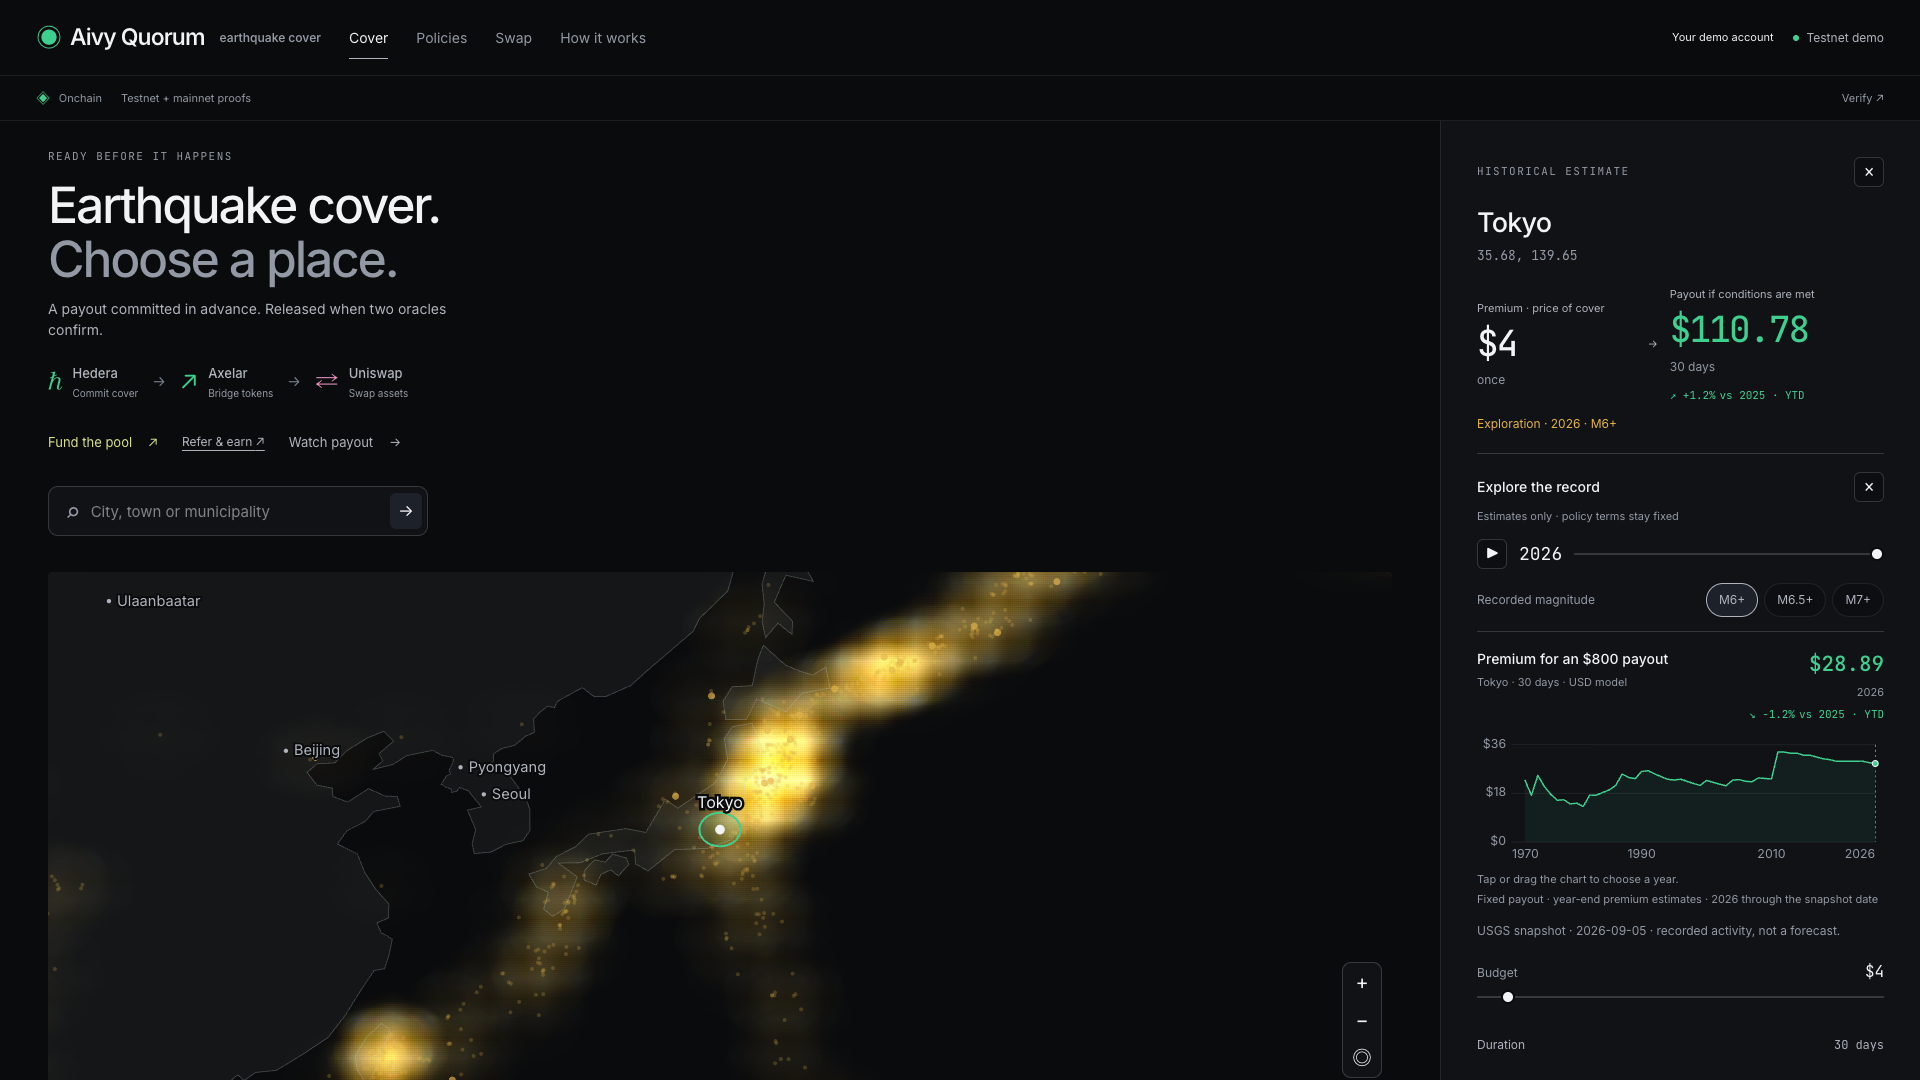
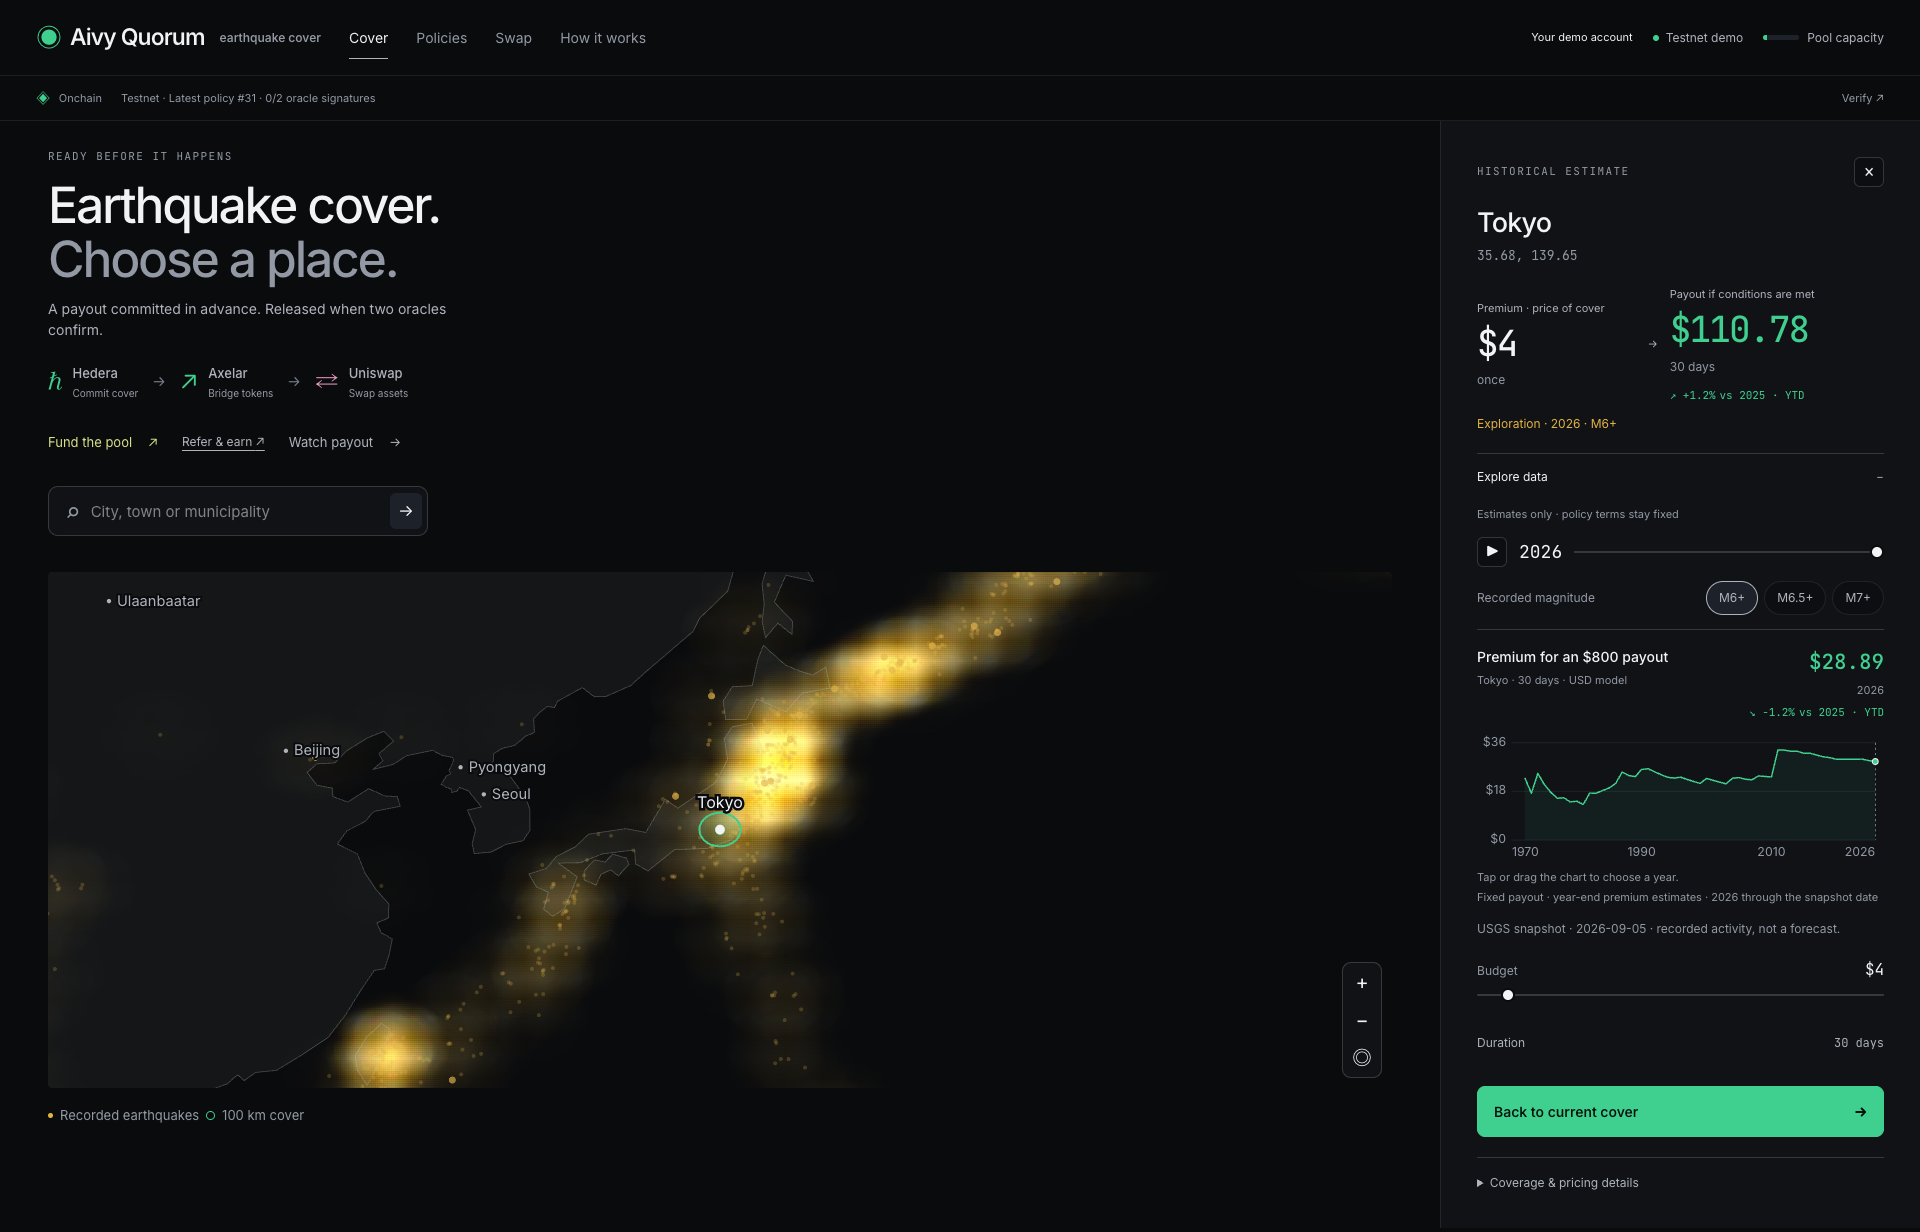
Align Explore data with the quote panel options

diff --git a/ui/src/app/ExploreControls.tsx b/ui/src/app/ExploreControls.tsx
@@ -3,8 +3,9 @@ import { CATALOGUE, FIRST_YEAR, LAST_YEAR } from '../lib/hazard';
 import { History } from './History';
 import type { MapState, Pin } from './AtlasMap';
 
-export function ExploreControls({ pin, days, map, playing, onPlay, onYear, onMagnitude, onClose }: {
+export function ExploreControls({ pin, days, map, playing, onPlay, onYear, onMagnitude, onClose, labelledBy }: {
   pin: Pin | null; days: number; map: MapState; playing: boolean;
+  labelledBy?: string;
   onPlay: () => void; onYear: (year: number) => void;
   onMagnitude: (magnitude: number) => void; onClose: () => void;
 }) {
@@ -22,10 +23,10 @@ export function ExploreControls({ pin, days, map, playing, onPlay, onYear, onMag
       });
     }
   }, []);
-  return <section id="historical-exploration" className="explore-controls" ref={section} tabIndex={-1} aria-label="Historical data exploration" onKeyDown={event => {
+  return <section id="historical-exploration" className="explore-controls" ref={section} tabIndex={-1} aria-labelledby={labelledBy} aria-label={labelledBy?undefined:'Historical data exploration'} onKeyDown={event => {
     if (event.key === 'Escape') { event.stopPropagation(); onClose(); }
   }}>
-    <div className="explore-heading"><strong>Explore the record</strong><button className="icon-btn" onClick={onClose} aria-label="Close historical exploration">×</button></div>
+    {!labelledBy?<div className="explore-heading"><strong>Explore the record</strong><button className="icon-btn" onClick={onClose} aria-label="Close historical exploration">×</button></div>:null}
     <span className="explore-disclaimer">Estimates only · policy terms stay fixed</span>
     <div className="explore-time"><button className="icon-btn" aria-label={playing ? 'Pause earthquake history' : 'Play earthquake history'} onClick={onPlay}>{playing ? 'Ⅱ' : '▶'}</button><label htmlFor={yearId}>{map.year}</label><input id={yearId} type="range" className="slider" aria-label="Record year" min={FIRST_YEAR} max={LAST_YEAR} value={map.year} onChange={event => onYear(Number(event.target.value))}/></div>
     <div className="explore-mags"><span>Recorded magnitude</span>{[6, 6.5, 7].map(m => <button key={m} className={`chip ${m === map.minMag ? 'chip-on' : ''}`} aria-pressed={m === map.minMag} onClick={() => onMagnitude(m)}>M{m}+</button>)}</div>

diff --git a/ui/src/app/Home.tsx b/ui/src/app/Home.tsx
@@ -45,7 +45,8 @@ export function Home() {
   }, []);
   useEffect(() => { const update = () => setPinState(readPin()); window.addEventListener('popstate', update); return () => window.removeEventListener('popstate', update); }, []);
   const markers = (a.policies ?? []).filter(p => p.state === 'active' || p.state === 'confirming').map(p => ({ lat: p.lat, lon: p.lon, label: p.place ?? `Policy ${p.serial}`, id: String(p.serial), tone: 'ok' as const }));
-  const exploration = exploring ? <ExploreControls pin={pin} days={days} map={map} playing={playing} onPlay={()=>{if(!playing&&map.live)setYear(FIRST_YEAR);setPlaying(!playing);}} onYear={chooseYear} onMagnitude={setMinMag} onClose={()=>changeExploring(false)}/> : null;
+  const record = exploring ? <ExploreControls pin={pin} days={days} map={map} playing={playing} labelledBy={pin?'explore-toggle':undefined} onPlay={()=>{if(!playing&&map.live)setYear(FIRST_YEAR);setPlaying(!playing);}} onYear={chooseYear} onMagnitude={setMinMag} onClose={()=>changeExploring(false)}/> : null;
+  const exploration = pin ? <div className="quote-explore"><button id="explore-toggle" className="quote-option" aria-expanded={exploring} aria-controls={exploring?'historical-exploration':undefined} onClick={()=>changeExploring(!exploring)}>Explore data <span aria-hidden="true">{exploring?'−':'+'}</span></button>{record}</div> : record;
   return <div className={`cover-layout ${pin ? 'has-quote' : ''} ${exploring ? 'is-exploring' : ''}`}>
     <div className="atlas-surface">
       <div className="atlas-intro"><div className="eyebrow">Ready before it happens</div><h1>Earthquake cover.<br /><span>Choose a place.</span></h1><p>A payout committed in advance. Released when two oracles confirm.</p><NetworkPath/><div className="journey-links"><a href="/policies?view=fund" onClick={onLink}>Fund the pool <span>↗</span></a><button className="text-button" onClick={()=>window.dispatchEvent(new Event('quorum:account'))}>Refer & earn <span aria-hidden="true">↗</span></button><a href="/story#1" onClick={onLink}>Watch payout <span>→</span></a></div></div>

diff --git a/ui/src/app/AtlasMap.tsx b/ui/src/app/AtlasMap.tsx
@@ -129,7 +129,7 @@ export function AtlasMap({ pin, onPin, map, markers = [], onMarker, onExploringC
       </svg>
       <div className="map-zoom"><button aria-label="Zoom in" onClick={()=>setView(v=>zoomAt(v,W/2,H/2,1.6))}>+</button><button aria-label="Zoom out" onClick={()=>setView(v=>zoomAt(v,W/2,H/2,1/1.6))}>−</button><button aria-label="Show world map" onClick={()=>setView(HOME)}>◎</button></div>
     </div>
-    <div className="map-bottom"><div className="map-legend"><span className="map-legend-item"><i className="legend-quake"/>Recorded earthquakes</span><span className="map-legend-item"><i className="legend-cover"/>100 km cover</span></div><button id="explore-toggle" className={`chip ${exploring ? 'chip-on' : ''}`} aria-expanded={exploring} aria-controls={exploring?"historical-exploration":undefined} onClick={()=>onExploringChange(!exploring)}>{exploring ? 'Back to cover' : 'Explore data'}</button></div>
+    <div className="map-bottom"><div className="map-legend"><span className="map-legend-item"><i className="legend-quake"/>Recorded earthquakes</span><span className="map-legend-item"><i className="legend-cover"/>100 km cover</span></div>{!pin?<button id="explore-toggle" className={`chip ${exploring ? 'chip-on' : ''}`} aria-expanded={exploring} aria-controls={exploring?"historical-exploration":undefined} onClick={()=>onExploringChange(!exploring)}>{exploring ? 'Back to cover' : 'Explore data'}</button>:null}</div>
 
   </div>;
 }

diff --git a/ui/src/styles.css b/ui/src/styles.css
@@ -637,7 +637,11 @@ small { font-size:12px; color:var(--fg-2); }
 .suggested-places { display:flex; align-items:center; gap:8px; margin-top:24px; flex-wrap:wrap; }.suggested-places>span { font-size:12px; color:var(--fg-2); margin-right:5px; }
 .chip { font-size:12px; min-height:34px; padding:6px 12px; color:var(--fg-1); }
 .explore-controls { display:flex; flex-direction:column; gap:14px; min-width:0; background:var(--bg-1); outline:none; }
-.quote-panel .explore-controls { padding-top:18px; border-top:1px solid var(--line-strong); }
+.quote-explore { border-top:1px solid var(--line-strong); }
+.quote-option { display:flex; align-items:center; justify-content:space-between; gap:12px; width:100%; min-height:44px; padding:14px 0; text-align:left; color:var(--fg-1); font-size:12px; }
+.quote-option:hover,.quote-option[aria-expanded=true] { color:var(--fg-0); }
+.quote-option>span { color:var(--fg-2); }
+.quote-explore .explore-controls { padding:14px 0 0; border:0; }
 .explore-heading .icon-btn { margin-left:auto; }
 .explore-disclaimer { font-size:11px; color:var(--fg-2); margin-top:-8px; }
 .quote-action .buy { width:100%; }

diff --git a/README.md b/README.md
@@ -405,7 +405,7 @@ visible on arrival; technical evidence stays one disclosure away.
 | --- | --- |
 | Global discovery | City labels resize for phones, avoid overlaps and zoom controls, and give the selected location priority. Debounced Photon/OpenStreetMap city and municipality search, keyboard selection, coordinate entry, map pinning, zoom/pan, and Mexico, California and Tokyo demos. Unaccented “Medellin” was verified. Search coverage depends on the upstream catalogue. |
 | Geographic NFT identity | Aivy Quorum branding, local map, approximate 100 km protected area, terms, payout and network replace abstract artwork. Cover NFTs and proposed LP receipts remain visually distinct. |
-| Understandable pricing history | A right-hand panel keeps the chart beside the map, directly under the selected location’s estimate. On phones/tablets, it stacks below the map and opens at the location details. The premium-over-time chart holds the modeled payout at **$800**, with the selected year and red/green annual variation. Click, tap or drag the chart—or use the keyboard/timeline—to choose a year. Historical exploration cannot change issued terms; returning to Cover restores the current M6+ quote. |
+| Understandable pricing history | A full-width **Explore data +** row aligns with the other options in the right-hand panel and opens the chart directly under the selected location’s estimate. On phones/tablets, it stacks below the map and opens at the location details. The premium-over-time chart holds the modeled payout at **$800**, with the selected year and red/green annual variation. Click, tap or drag the chart—or use the keyboard/timeline—to choose a year. Historical exploration cannot change issued terms; returning to Cover restores the current M6+ quote. |
 | Visual funding preview | Contribution slider, premium share and two claim outcomes show how capital might participate. Annual premium rate is gross, before claims/costs; contributed principal can be used for a payout. One model/limitations disclosure holds the assumptions; claim/no-claim bars align even when labels wrap. Preview/unminted labels remain visible. |
 | A clearer six-scene story | Geographic terms → capital commitment → named signatures → transfer animation → NFT/receipts → blocked authorization control. Direct step links and previous/next controls keep the recorded mainnet demonstration navigable. Mobile shows debit and credit side by side. |
 | Explicit signature evidence | Old circular diagrams were replaced with **agent key AND oracle threshold → observed result**. “3 signed · 2 required” avoids ambiguous counts. Missing agent signature explains the blocked control; unknown ledger status remains unverified. |

diff --git a/docs/qa/EXPLORE-SIDEBAR.md b/docs/qa/EXPLORE-SIDEBAR.md
@@ -1,8 +1,10 @@
 # Historical exploration beside the map
 
-“Explore data” now opens in the right-hand column, directly below the selected
-location’s premium/payout estimate. The chart appears before budget controls and
-expanded explanations. With no location selected, the same column offers the
+“Explore data” is a full-width expandable row in the right-hand column, aligned
+with the other quote options directly below the location’s premium/payout estimate.
+Its plus/minus control opens and closes the chart in place, before budget controls
+and expanded explanations. The selected-location view has no duplicate map button
+or chart heading. With no location selected, the map entry opens a column with the
 timeline and a prompt to choose a place. Phones and tablets stack the panel below
 the compact map; opening it brings the location details into view.
 
